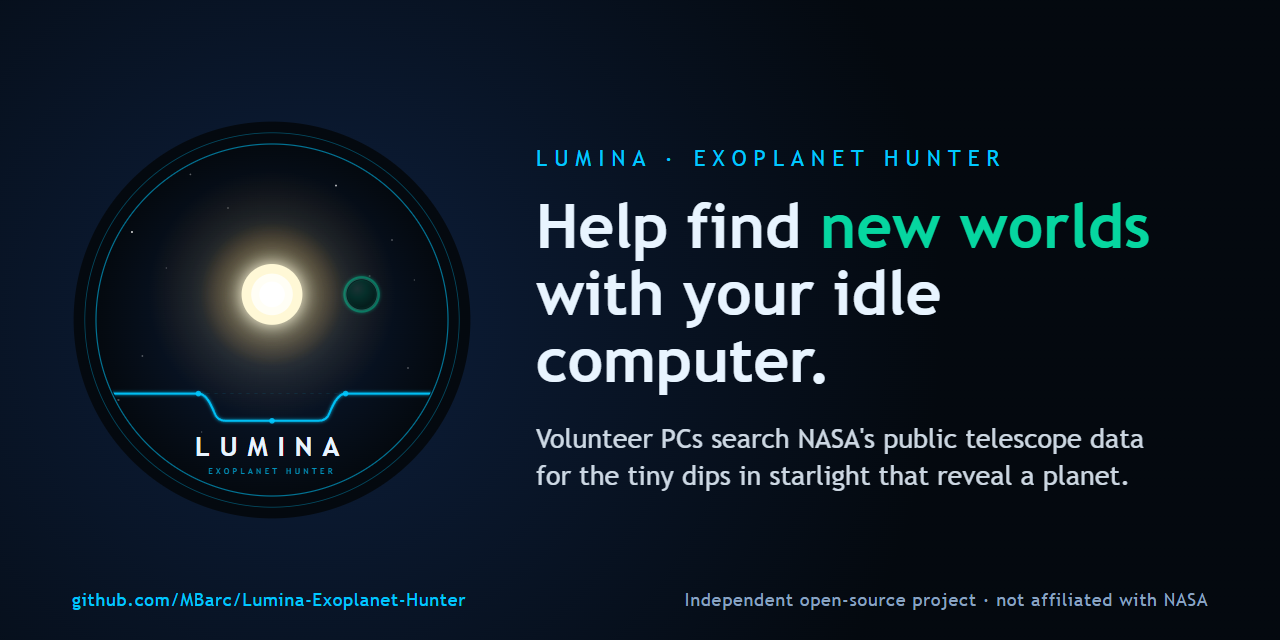
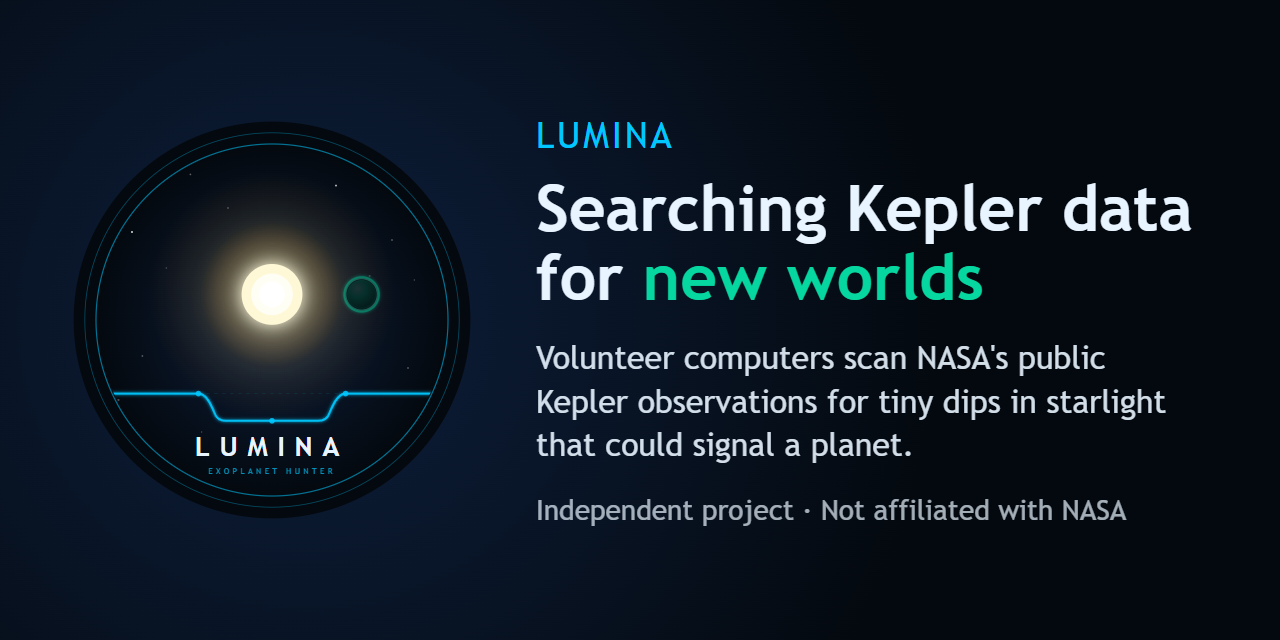
Social preview: accurate Kepler headline, larger type, prominent disclaimer; draft repo metadata

diff --git a/branding/social-preview.html b/branding/social-preview.html
@@ -12,7 +12,6 @@
     --gold: #ffd166;
     --green: #06d6a0;
     --light: #e8f4ff;
-    --muted: #8aa4c2;
   }
   * { margin: 0; box-sizing: border-box; }
   html, body { width: 1280px; height: 640px; overflow: hidden; }
@@ -21,35 +20,27 @@
     color: var(--light);
     font-family: 'Trebuchet MS', 'Gill Sans', Arial, sans-serif;
     display: flex; align-items: center;
-    padding: 0 88px 0 72px; gap: 64px;
+    padding: 64px 72px; gap: 64px;
   }
   .logo { width: 400px; height: 400px; flex: none; }
   .copy { flex: 1; }
   .eyebrow {
-    color: var(--cyan); font-size: 22px; letter-spacing: 0.32em;
-    text-transform: uppercase; margin-bottom: 22px;
+    color: var(--cyan); font-size: 36px; letter-spacing: 0.08em;
+    text-transform: uppercase; margin-bottom: 18px;
   }
-  h1 { font-size: 62px; line-height: 1.08; font-weight: 700; margin-bottom: 26px; }
+  h1 { font-size: 64px; line-height: 1.08; font-weight: 700; margin-bottom: 24px; }
   h1 em { font-style: normal; color: var(--green); }
-  p { font-size: 27px; line-height: 1.4; color: var(--light); opacity: 0.88; max-width: 640px; }
-  .foot {
-    position: absolute; left: 0; right: 0; bottom: 30px;
-    display: flex; justify-content: space-between; padding: 0 72px;
-    font-size: 18px; color: var(--muted); letter-spacing: 0.04em;
-  }
-  .foot b { color: var(--cyan); font-weight: 400; }
+  p { font-size: 32px; line-height: 1.35; color: var(--light); opacity: 0.9; max-width: 660px; }
+  .disclaimer { margin-top: 28px; font-size: 28px; color: var(--light); opacity: 0.7; }
 </style>
 </head>
 <body>
   <img class="logo" src="logo.svg" alt="">
   <div class="copy">
-    <div class="eyebrow">Lumina &middot; Exoplanet Hunter</div>
-    <h1>Help find <em>new worlds</em> with your idle computer.</h1>
-    <p>Volunteer PCs search NASA's public telescope data for the tiny dips in starlight that reveal a planet.</p>
-  </div>
-  <div class="foot">
-    <span><b>github.com/MBarc/Lumina-Exoplanet-Hunter</b></span>
-    <span>Independent open-source project &middot; not affiliated with NASA</span>
+    <div class="eyebrow">Lumina</div>
+    <h1>Searching Kepler data for <em>new worlds</em></h1>
+    <p>Volunteer computers scan NASA's public Kepler observations for tiny dips in starlight that could signal a planet.</p>
+    <div class="disclaimer">Independent project &middot; Not affiliated with NASA</div>
   </div>
 </body>
 </html>

diff --git a/branding/github-metadata.md b/branding/github-metadata.md
@@ -1,0 +1,23 @@
+# GitHub repo metadata
+
+What the repo's About box is set to. Audience: non-technical NASA staff, so plain
+words first, jargon only in topics (where it helps search).
+
+## Description
+
+> Volunteer computers search NASA's public Kepler telescope data for the tiny dips in starlight that could mean a new planet. Open source and independent — not affiliated with NASA.
+
+## Website
+
+https://mbarc.github.io/Lumina-Exoplanet-Hunter/ (Mission Control, live network stats)
+
+## Topics
+
+`exoplanets` `exoplanet-detection` `astronomy` `space` `kepler` `tess` `nasa-data`
+`citizen-science` `volunteer-computing` `distributed-computing` `machine-learning`
+`light-curves` `transit-photometry`
+
+## Social preview
+
+`branding/social-preview.png` (source: `social-preview.html`). GitHub has no API for
+this; upload it under Settings → General → Social preview.
